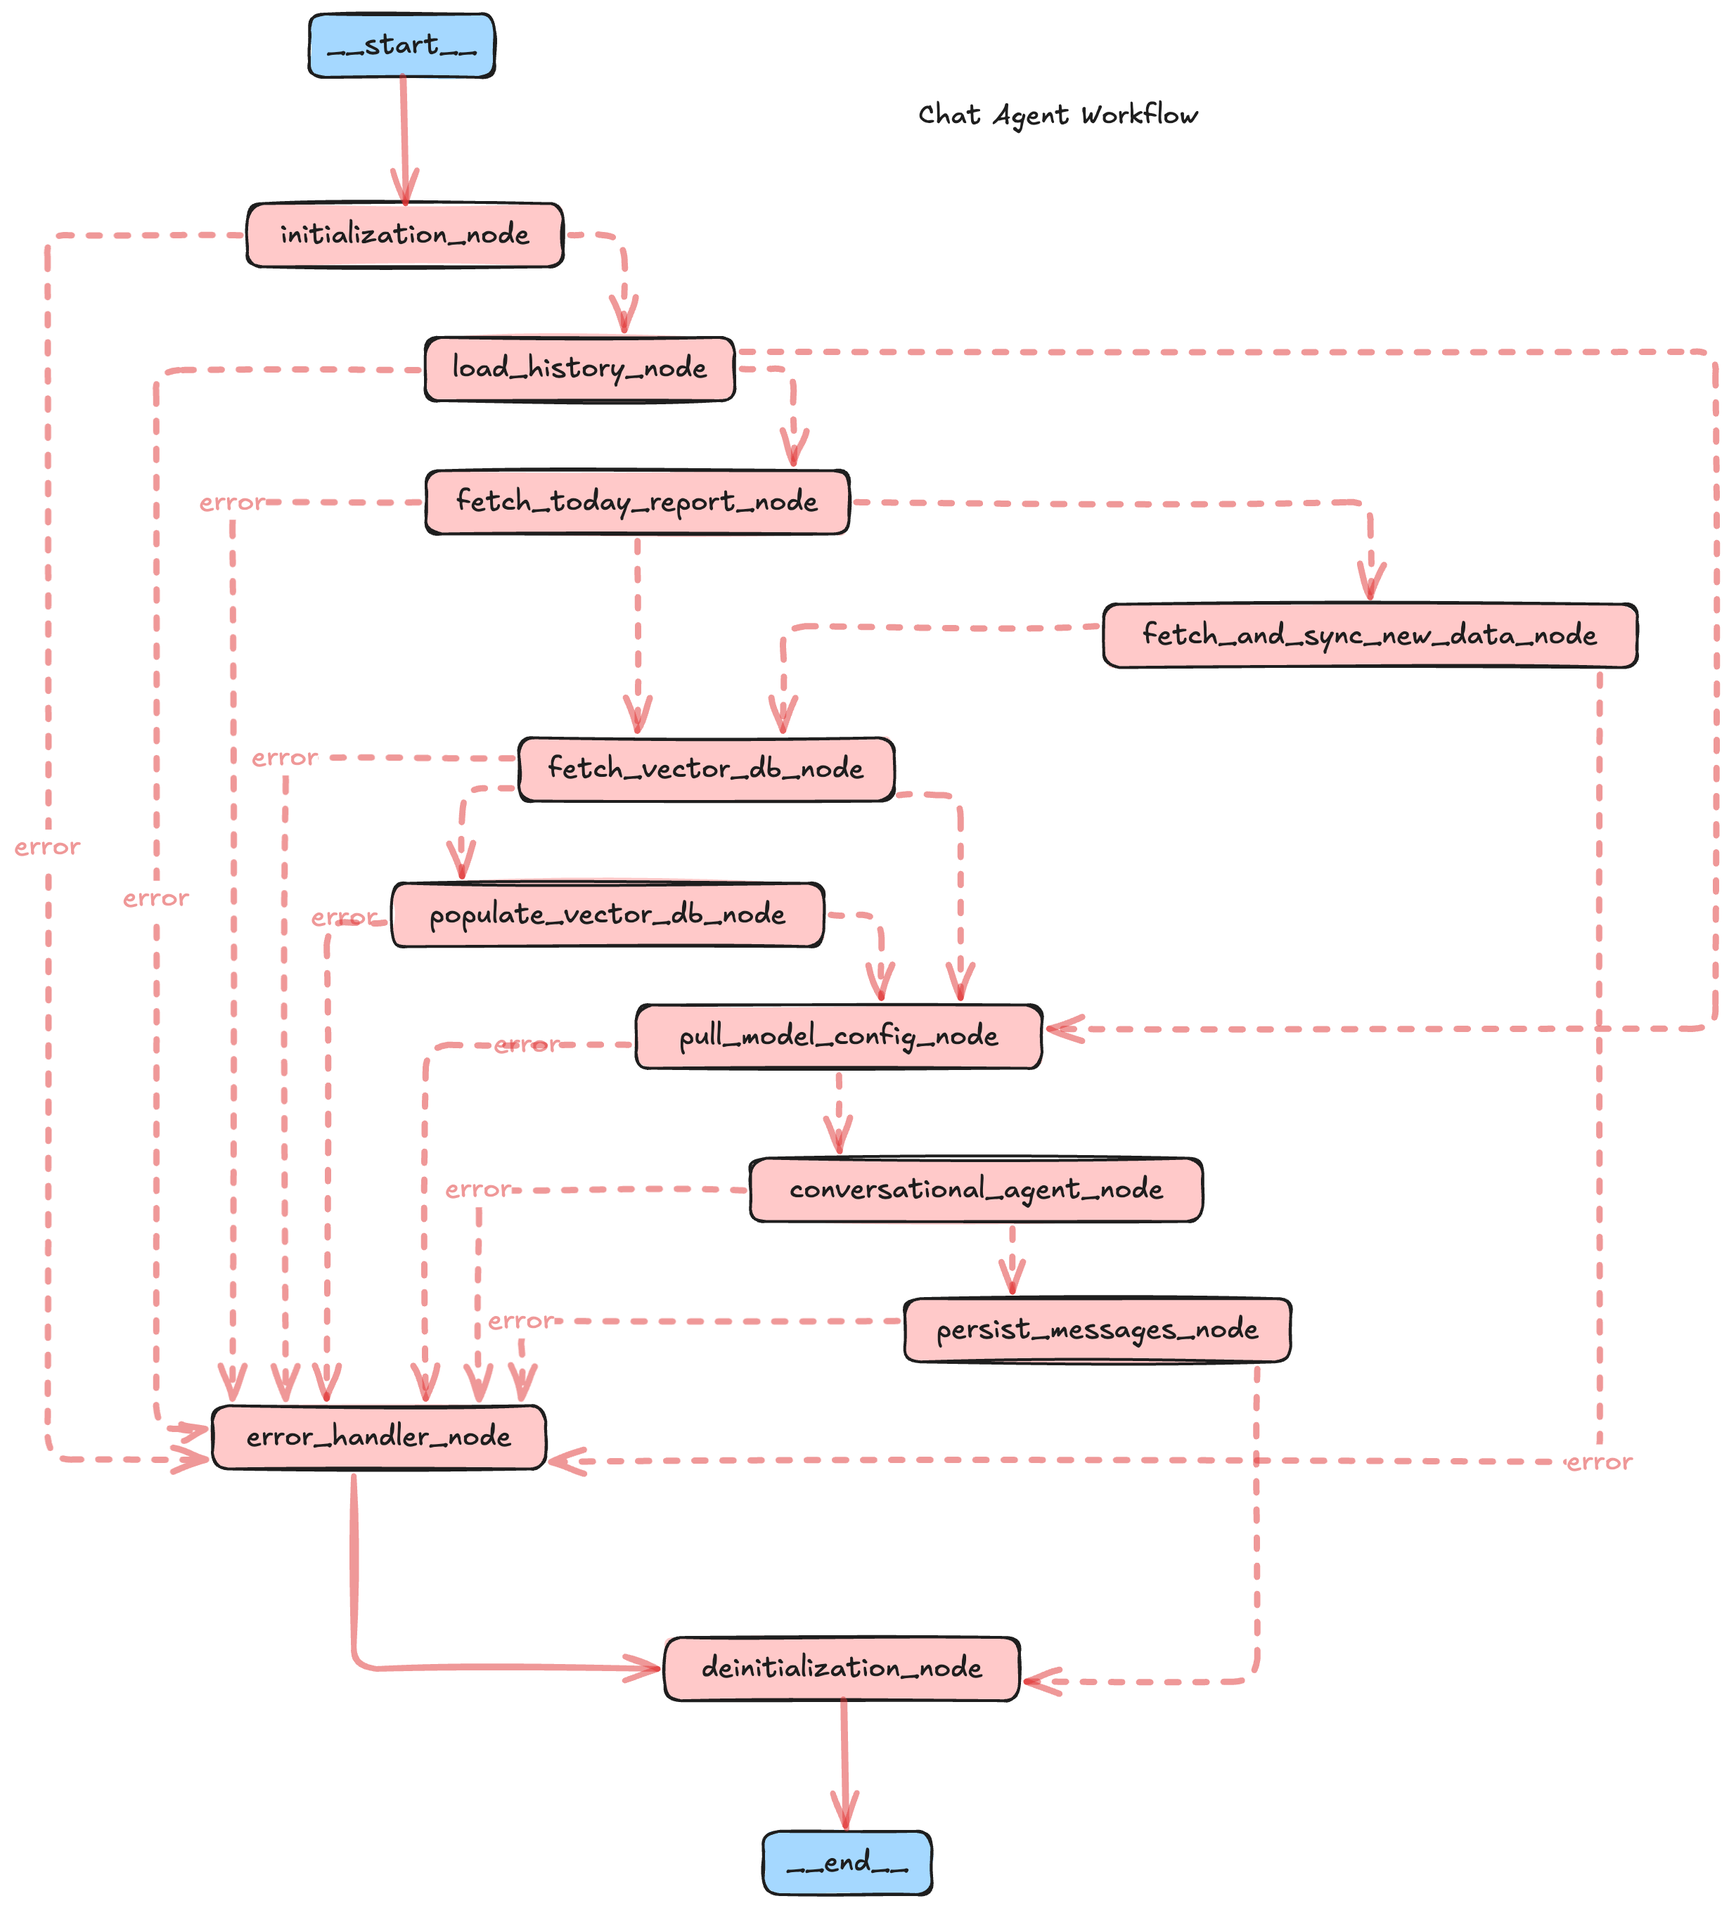
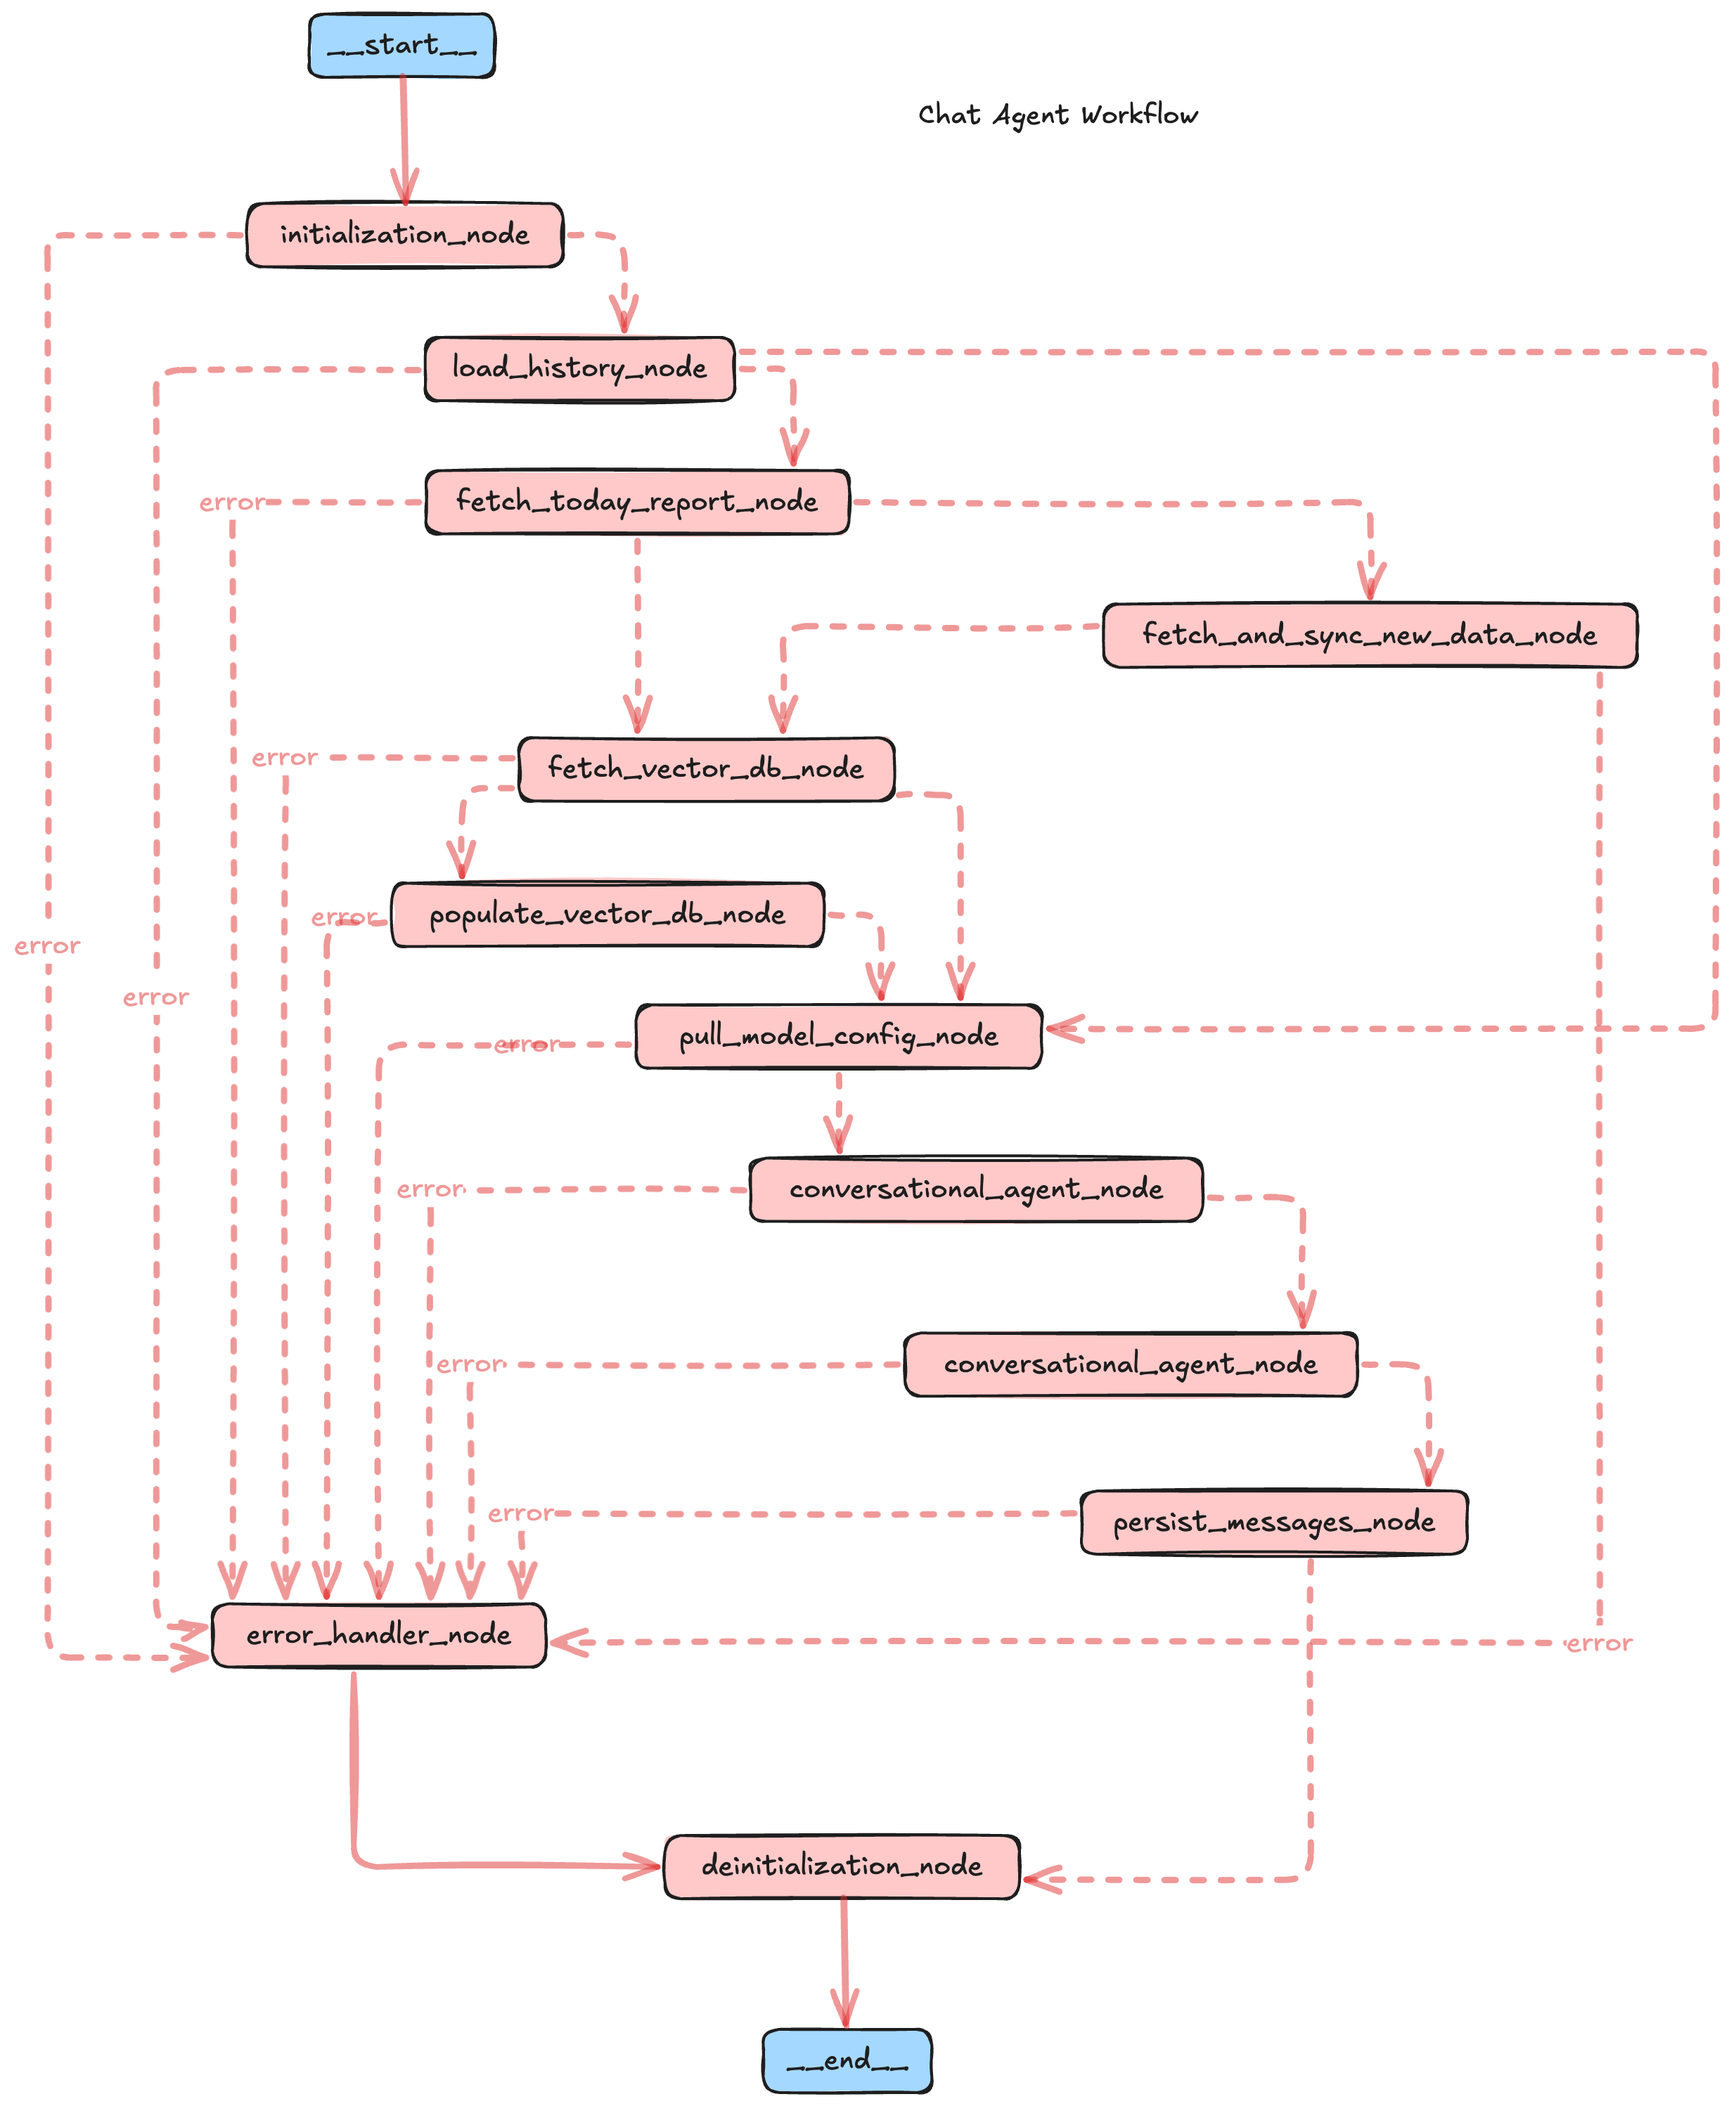
verified response check added

diff --git a/app/services/chat_agent_service.py b/app/services/chat_agent_service.py
@@ -58,8 +58,7 @@ class State(dict):
     error_occured: bool
     error_details: dict
     next_node: str
-
-
+    non_verified_response: bool
 
 
 # --- Node1: Initialize tools ---
@@ -73,7 +72,8 @@ async def initialization_node(state):
     Returns:
         State: The updated state with initialized tools and services.
     """    
-    state["error_occured"] = False
+    state["error_occured"] = False 
+    state["non_verified_response"] = False
     state["next_node"] = "load_history_node"
     try:
         print("initialization_node:: ")
@@ -510,7 +510,7 @@ async def conversational_agent_node(state):
     9. Return the state with the error message.
     10. Print the error message and the traversed path.
     """    
-    state["next_node"] = "persist_messages_node"
+    state["next_node"] = "check_non_verified_response_node"
     try:
         print("conversational_agent_node:: ")
         llm = ChatOpenAI(model= state["model_config"]["model_id"],openai_api_key=settings.OPENAI_API_KEY, temperature=0)
@@ -585,7 +585,39 @@ async def conversational_agent_node(state):
         }
         return state
 
-# --- Node9: Persist message explicitly ---
+
+
+# --- Node9: check for non verified token in answer ---
+async def check_non_verified_response_node(state, token="**<<NA>>**"):
+    state["next_node"] = "persist_messages_node"
+    try:
+        response = state["answer"]
+        # Strip any whitespace from the end of the response
+        response = response.strip()
+        # Check if the response ends with the specified token
+        if response.endswith(token):
+            state["non_verified_response"] = True
+            state["answer"] = response[:-len(token)].rstrip()
+        else:
+            state["non_verified_response"] = False
+        return state
+    except Exception as error:
+        print("check_non_verified_response_node:: error - ",str(error))
+        print("Travarsed Path:: ", " --> ".join(elm for elm in state.get("path",[])))
+        # Capture traceback string
+        tb_str = traceback.format_exception(error)
+        # Store error message and traceback in state for later handling or processing
+        state["error_occured"] = True
+        state["error_details"] = {
+            "message": str(error),
+            "traceback": ''.join(tb_str).strip(),
+            "node": "check_non_verified_response_node"
+        }
+        return state
+
+    
+
+# --- Node10: Persist message explicitly ---
 async def persist_messages_node(state):
     """Persist the user and AI messages in the MongoDB database.
     This function is called after the conversational agent generates a response.
@@ -623,7 +655,7 @@ async def persist_messages_node(state):
 
 
 
-# --- Node10: Load message history ---
+# --- Node11: Load message history ---
 async def deinitialization_node(state):
     """Deinitialize the tools and services used in the workflow.
     This function closes the MongoDB connection, deinitializes the encoder and vectorizer connections,
@@ -704,7 +736,7 @@ async def deinitialization_node(state):
 
 
 
-# --- Node11: error handle condition explicitly ---
+# --- cond edge 4: error handle condition explicitly ---
 async def check_error_condition(state): 
     """Check if an error has occurred in the workflow.
     This function is used to determine the next node in the workflow based on the error status.
@@ -744,7 +776,7 @@ async def check_error_condition(state):
         return "error_handler_node"
 
 
-# --- Node11: error handle explicitly ---
+# --- Node12: error handle explicitly ---
 async def error_handler_node(state):
     """Handle errors that occur during the workflow.
     This function captures the error details and appends them to the state.
@@ -810,9 +842,10 @@ async def build_state_graph():
         workflow.add_node("populate_vector_db_node", populate_vector_db_node)
         workflow.add_node("pull_model_config_node", pull_model_config_node)
         workflow.add_node("conversational_agent_node", conversational_agent_node)
+        workflow.add_node("check_non_verified_response_node", check_non_verified_response_node)
         workflow.add_node("persist_messages_node", persist_messages_node)
         workflow.add_node("deinitialization_node", deinitialization_node)
-        workflow.add_node("error_handler_node", error_handler_node)
+        workflow.add_node("error_handler_node", error_handler_node) 
 
 
         # Edge Setup explicitly clear and adjusted
@@ -850,6 +883,10 @@ async def build_state_graph():
         })
         workflow.add_conditional_edges("conversational_agent_node", check_error_condition, {
             "error_handler_node": "error_handler_node",
+            "check_non_verified_response_node": "check_non_verified_response_node"
+        })
+        workflow.add_conditional_edges("check_non_verified_response_node", check_error_condition, {
+            "error_handler_node": "error_handler_node",
             "persist_messages_node": "persist_messages_node"
         })
         workflow.add_conditional_edges("persist_messages_node", check_error_condition, {
@@ -867,7 +904,7 @@ async def build_state_graph():
 
 runnable_graph = asyncio.run(build_state_graph())
 # print(runnable_graph.get_graph().print_ascii())
-# print(runnable_graph.get_graph().draw_mermaid())
+print(runnable_graph.get_graph().draw_mermaid())
 
 async def start():
     test_input = {

diff --git a/app/controllers/chat_controller.py b/app/controllers/chat_controller.py
@@ -46,7 +46,8 @@ class ChatController:
                     "question": result.get("question", input["user_query"]),
                     "traversed_path": " --> ".join(elm for elm in result.get("path",[])),
                     "response": result["error_details"].get("message",""),
-                    "error_occured": result["error_occured"]
+                    "error_occured": result["error_occured"],
+                    "verified_button": result["non_verified_response"]
                 }
             else:
                 print("[DEBUG] Final Output:", result.get("answer")) 
@@ -56,7 +57,8 @@ class ChatController:
                     "question": result.get("question", input["user_query"]),
                     "response": result.get("answer"), 
                     "traversed_path": " --> ".join(elm for elm in result.get("path",[])),
-                    "error_occured": result["error_occured"]
+                    "error_occured": result["error_occured"],
+                    "verified_button": result["non_verified_response"]
                 }
         except Exception as error:
             logger.exception(error, extra={"moduleName": settings.MODULE, "serviceName": self.service_name})
